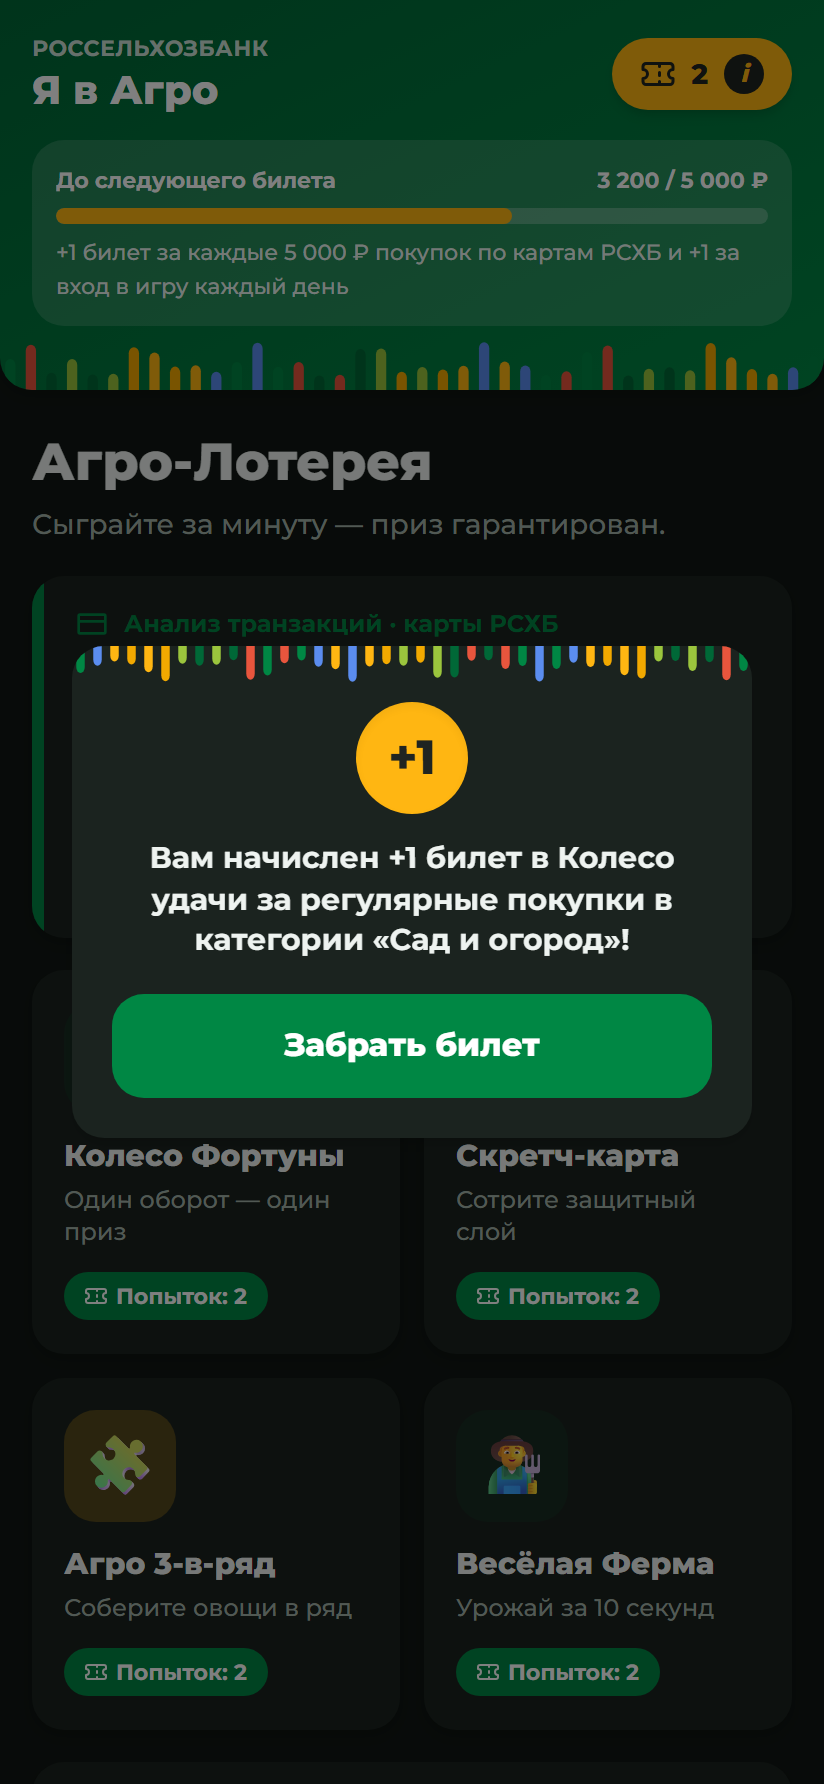
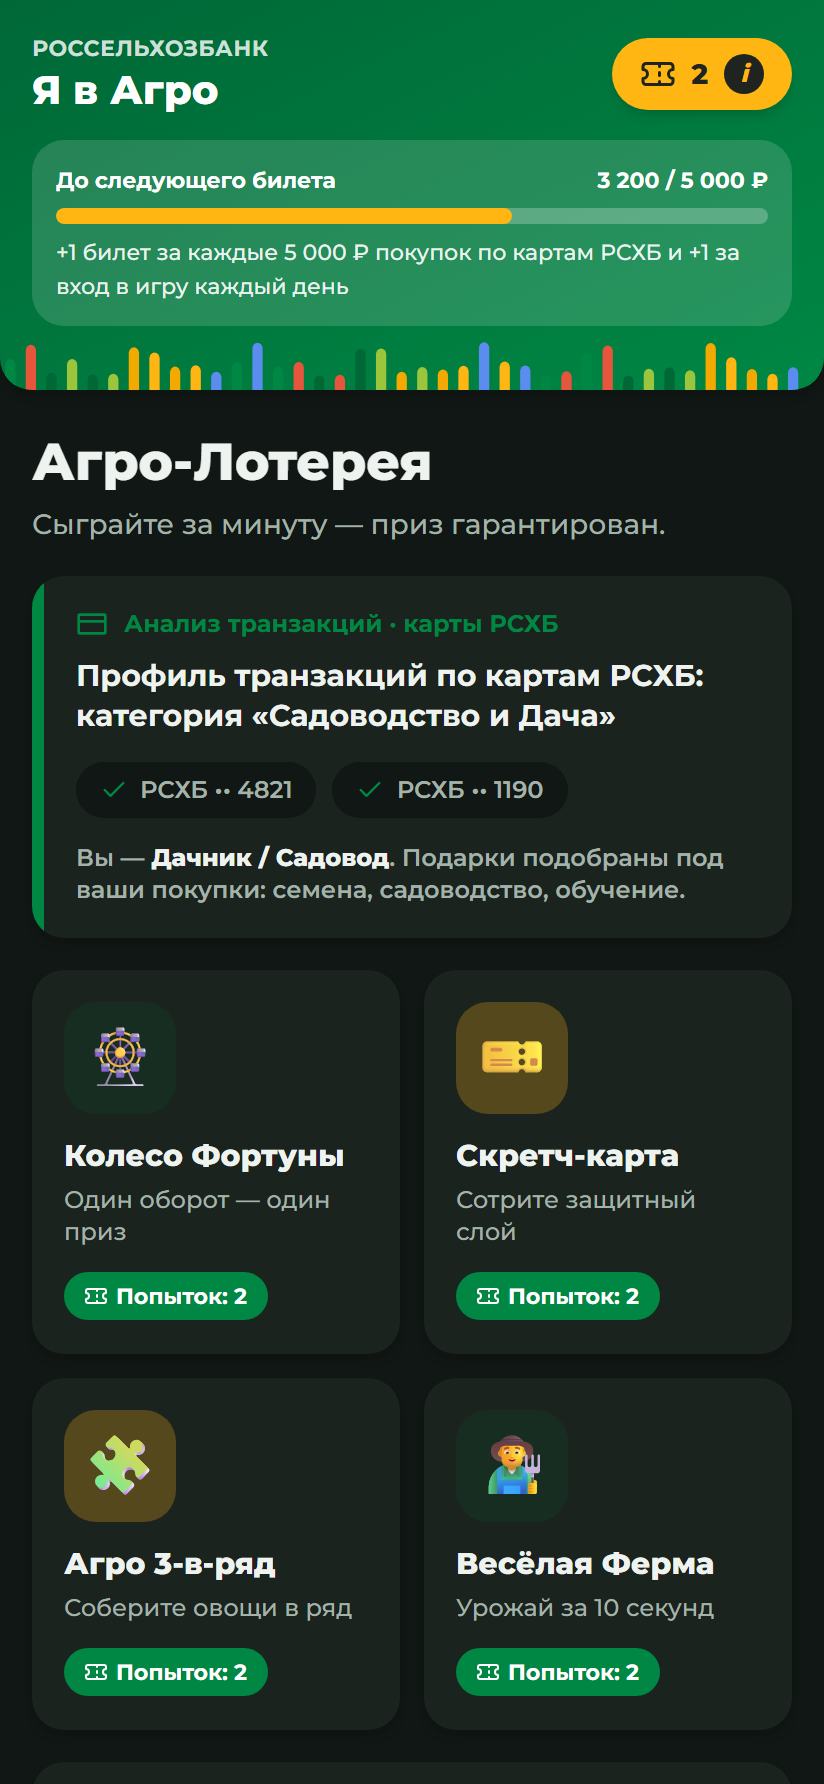
Update screenshots without modal overlays and set repository URLs for Wolf-prog

diff --git a/README.md b/README.md
@@ -183,8 +183,8 @@ flowchart TB
 ### Вариант 2. Локальный сервер
 
 ```bash
-git clone <URL вашего репозитория>
-cd <папка репозитория>
+git clone https://github.com/Wolf-prog/agro-lottery.git
+cd agro-lottery
 python3 -m http.server 8080
 # откройте http://localhost:8080
 ```
@@ -193,7 +193,7 @@ python3 -m http.server 8080
 
 1. Загрузите `index.html` в корень репозитория.
 2. **Settings → Pages → Build and deployment → Deploy from a branch**, ветка `main`, папка `/ (root)`.
-3. Через минуту страница откроется по адресу `https://<ваш-логин>.github.io/<репозиторий>/`.
+3. Через минуту страница откроется по адресу `https://wolf-prog.github.io/agro-lottery/`.
 
 ### Как посмотреть разные сценарии
 
@@ -212,7 +212,7 @@ python3 -m http.server 8080
 
 ```html
 <iframe
-  src="https://<адрес-размещения>/index.html"
+  src="https://wolf-prog.github.io/agro-lottery/index.html"
   title="Агро-Лотерея РСХБ"
   width="100%" height="760"
   style="border:0"
